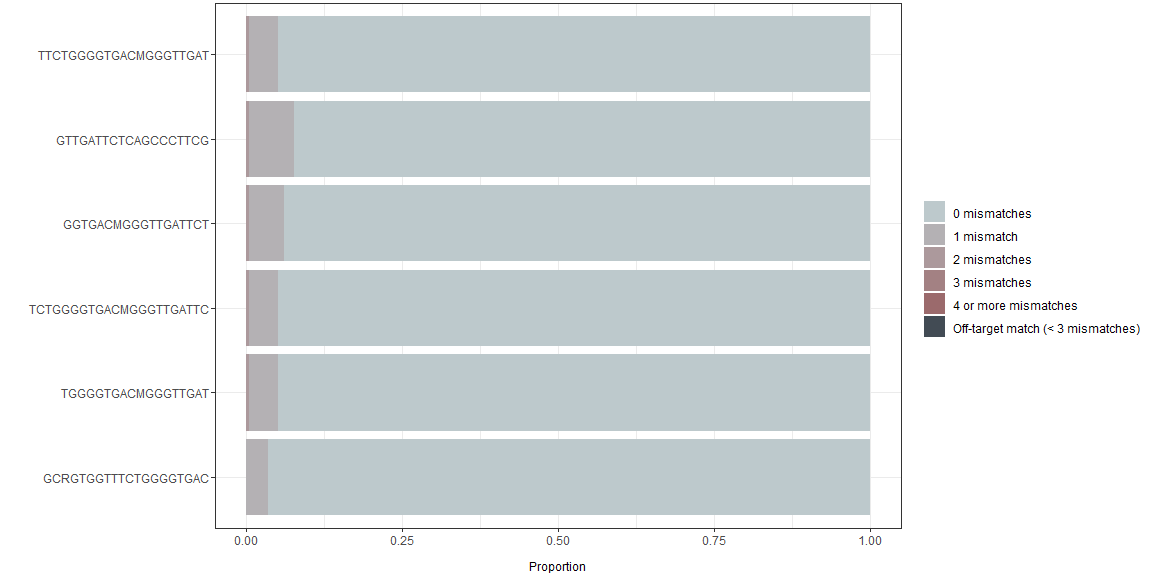
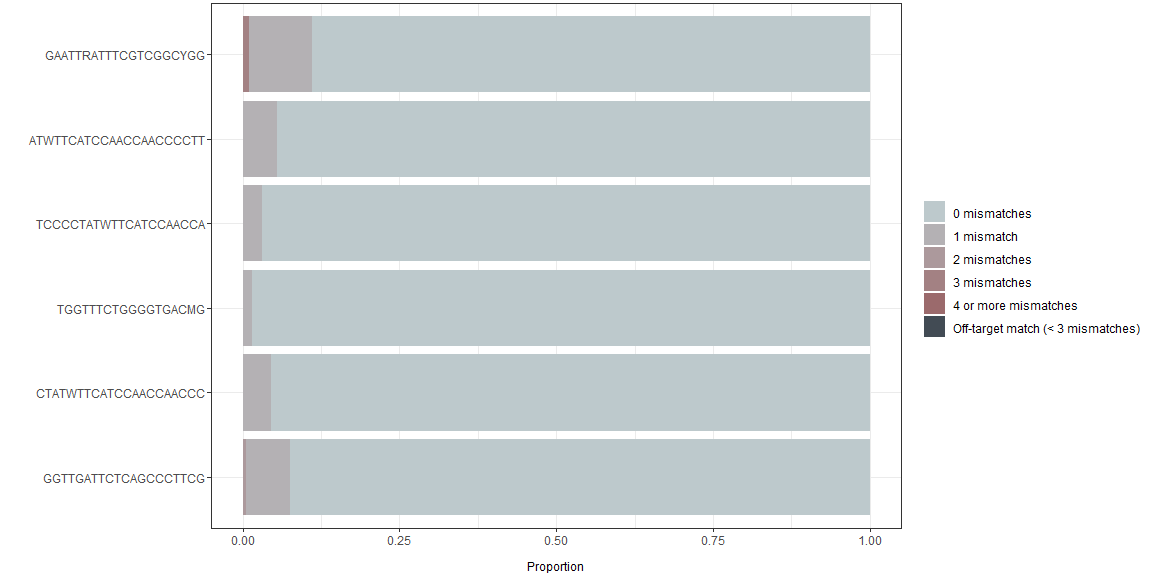
updated shiny app

diff --git a/README.md b/README.md
@@ -7,8 +7,6 @@
 
 [![R build
 status](https://github.com/sofpn/rprimer/workflows/R-CMD-check/badge.svg)](https://github.com/sofpn/rprimer/actions)
-[![Codecov test
-coverage](https://codecov.io/gh/sofpn/rprimer/branch/master/graph/badge.svg)](https://codecov.io/gh/sofpn/rprimer?branch=master)
 <!-- badges: end -->
 
 *This package is in development*
@@ -48,6 +46,8 @@ interface). It is loaded by:
 -   `runRprimerApp()`
 
 ## Workflow
+
+### Quick start
 
 ### Import alignment
 
@@ -112,12 +112,12 @@ Results (first six rows):
 
 | type   | fwd   | rev   | start | end | length | iupacSequence        | iupacSequenceRc      | identity | coverage | degeneracy | gcContentMean | gcContentRange | tmMean | tmRange | deltaGMean | deltaGRange | sequence   | sequenceRc | gcContent  | tm         | deltaG     | method    | score | roiStart | roiEnd |
 |:-------|:------|:------|------:|----:|-------:|:---------------------|:---------------------|---------:|---------:|-----------:|--------------:|---------------:|-------:|--------:|-----------:|------------:|:-----------|:-----------|:-----------|:-----------|:-----------|:----------|------:|---------:|-------:|
-| probe  | TRUE  | TRUE  |   138 | 157 |     20 | TCYGCCYTGGCGAATGCTGT | ACAGCATTCGCCARGGCRGA |     0.96 |        1 |          4 |          0.60 |           0.10 |  63.17 |    4.33 |     -21.61 |        2.08 | TCCGCCCT…. | ACAGCATT…. | 0.65, 0….. | 65.33623…. | -22.6538…. | ambiguous |     5 |        1 |   7997 |
-| probe  | FALSE | TRUE  |   141 | 160 |     20 | GCCYTGGCGAATGCTGTGGT | ACCACAGCATTCGCCARGGC |     0.98 |        1 |          2 |          0.62 |           0.05 |  63.18 |    1.84 |     -21.73 |        0.83 | GCCCTGGC…. | ACCACAGC…. | 0.65, 0.6  | 64.10586…. | -22.1475…. | ambiguous |     4 |        1 |   7997 |
-| primer | TRUE  | FALSE |   142 | 160 |     19 | CCYTGGCGAATGCTGTGGT  | ACCACAGCATTCGCCARGG  |     0.98 |        1 |          2 |          0.61 |           0.05 |  61.48 |    1.95 |     -19.84 |        0.83 | CCCTGGCG…. | ACCACAGC…. | 0.631578…. | 62.45335…. | -20.2570…. | ambiguous |     4 |        1 |   7997 |
-| probe  | TRUE  | TRUE  |   142 | 160 |     19 | CCYTGGCGAATGCTGTGGT  | ACCACAGCATTCGCCARGG  |     0.98 |        1 |          2 |          0.61 |           0.05 |  60.45 |    1.94 |     -19.84 |        0.83 | CCCTGGCG…. | ACCACAGC…. | 0.631578…. | 61.41686…. | -20.2570…. | ambiguous |     4 |        1 |   7997 |
-| primer | TRUE  | FALSE |   143 | 160 |     18 | CYTGGCGAATGCTGTGGT   | ACCACAGCATTCGCCARG   |     0.98 |        1 |          2 |          0.58 |           0.06 |  59.19 |    2.04 |     -18.35 |        0.83 | CCTGGCGA…. | ACCACAGC…. | 0.611111…. | 60.20693…. | -18.7709…. | ambiguous |     4 |        1 |   7997 |
-| probe  | TRUE  | TRUE  |   143 | 160 |     18 | CYTGGCGAATGCTGTGGT   | ACCACAGCATTCGCCARG   |     0.98 |        1 |          2 |          0.58 |           0.06 |  58.11 |    2.03 |     -18.35 |        0.83 | CCTGGCGA…. | ACCACAGC…. | 0.611111…. | 59.12650…. | -18.7709…. | ambiguous |     4 |        1 |   7997 |
+| probe  | TRUE  | TRUE  |   138 | 157 |     20 | TCYGCCYTGGCGAATGCTGT | ACAGCATTCGCCARGGCRGA |     0.96 |        1 |          4 |          0.60 |           0.10 |  63.17 |    4.33 |     -21.61 |        2.08 | TCCGCCCT…. | ACAGCATT…. | 0.65, 0….. | 65.33623…. | -22.6538…. | ambiguous |     2 |        1 |   7997 |
+| probe  | FALSE | TRUE  |   141 | 160 |     20 | GCCYTGGCGAATGCTGTGGT | ACCACAGCATTCGCCARGGC |     0.98 |        1 |          2 |          0.62 |           0.05 |  63.18 |    1.84 |     -21.73 |        0.83 | GCCCTGGC…. | ACCACAGC…. | 0.65, 0.6  | 64.10586…. | -22.1475…. | ambiguous |     3 |        1 |   7997 |
+| primer | TRUE  | FALSE |   142 | 160 |     19 | CCYTGGCGAATGCTGTGGT  | ACCACAGCATTCGCCARGG  |     0.98 |        1 |          2 |          0.61 |           0.05 |  61.48 |    1.95 |     -19.84 |        0.83 | CCCTGGCG…. | ACCACAGC…. | 0.631578…. | 62.45335…. | -20.2570…. | ambiguous |     3 |        1 |   7997 |
+| probe  | TRUE  | TRUE  |   142 | 160 |     19 | CCYTGGCGAATGCTGTGGT  | ACCACAGCATTCGCCARGG  |     0.98 |        1 |          2 |          0.61 |           0.05 |  60.45 |    1.94 |     -19.84 |        0.83 | CCCTGGCG…. | ACCACAGC…. | 0.631578…. | 61.41686…. | -20.2570…. | ambiguous |     3 |        1 |   7997 |
+| primer | TRUE  | FALSE |   143 | 160 |     18 | CYTGGCGAATGCTGTGGT   | ACCACAGCATTCGCCARG   |     0.98 |        1 |          2 |          0.58 |           0.06 |  59.19 |    2.04 |     -18.35 |        0.83 | CCTGGCGA…. | ACCACAGC…. | 0.611111…. | 60.20693…. | -18.7709…. | ambiguous |     2 |        1 |   7997 |
+| probe  | TRUE  | TRUE  |   143 | 160 |     18 | CYTGGCGAATGCTGTGGT   | ACCACAGCATTCGCCARG   |     0.98 |        1 |          2 |          0.58 |           0.06 |  58.11 |    2.03 |     -18.35 |        0.83 | CCTGGCGA…. | ACCACAGC…. | 0.611111…. | 59.12650…. | -18.7709…. | ambiguous |     2 |        1 |   7997 |
 
 The results can be visualized as a dashboard, using `plotData()`:
 
@@ -142,12 +142,12 @@ Results (first six rows):
 
 | start |  end | length | totalDegeneracy | score | startFwd | endFwd | lengthFwd | iupacSequenceFwd     | identityFwd | coverageFwd | degeneracyFwd | gcContentMeanFwd | gcContentRangeFwd | tmMeanFwd | tmRangeFwd | deltaGMeanFwd | deltaGRangeFwd | sequenceFwd | gcContentFwd | tmFwd      | deltaGFwd  | methodFwd | startRev | endRev | lengthRev | iupacSequenceRev     | identityRev | coverageRev | degeneracyRev | gcContentMeanRev | gcContentRangeRev | tmMeanRev | tmRangeRev | deltaGMeanRev | deltaGRangeRev | sequenceRev | gcContentRev | tmRev      | deltaGRev  | methodRev | plusPr | minusPr | startPr | endPr | lengthPr | iupacSequencePr        | iupacSequenceRcPr      | identityPr | coveragePr | degeneracyPr | gcContentMeanPr | gcContentRangePr | tmMeanPr | tmRangePr | deltaGMeanPr | deltaGRangePr | sequencePr | sequenceRcPr | gcContentPr | tmPr       | deltaGPr   | methodPr  | roiStart | roiEnd |
 |------:|-----:|-------:|----------------:|------:|---------:|-------:|----------:|:---------------------|------------:|------------:|--------------:|-----------------:|------------------:|----------:|-----------:|--------------:|---------------:|:------------|:-------------|:-----------|:-----------|:----------|---------:|-------:|----------:|:---------------------|------------:|------------:|--------------:|-----------------:|------------------:|----------:|-----------:|--------------:|---------------:|:------------|:-------------|:-----------|:-----------|:----------|:-------|:--------|--------:|------:|---------:|:-----------------------|:-----------------------|-----------:|-----------:|-------------:|----------------:|-----------------:|---------:|----------:|-------------:|--------------:|:-----------|:-------------|:------------|:-----------|:-----------|:----------|---------:|-------:|
-|  5926 | 5994 |     69 |               6 |  3.67 |     5926 |   5945 |        20 | GGCRGTGGTTTCTGGGGTGA |        0.98 |           1 |             2 |             0.62 |              0.05 |     62.84 |       2.51 |        -20.86 |           1.25 | GGCAGTGG….  | 0.6, 0.65    | 61.57995…. | -20.2350…. | ambiguous |     5975 |   5994 |        20 | GTTGGTTGGATGAASATAGG |           1 |           1 |             2 |              0.4 |                 0 |     50.71 |        1.1 |        -15.27 |           0.52 | GTTGGTTG….  | 0.4, 0.4     | 50.15469…. | -15.0078…. | ambiguous | TRUE   | FALSE   |    5946 |  5963 |       18 | CMGGGTTGATTCTCAGCC     | GGCTGAGAATCAACCCKG     |       0.98 |          1 |            2 |            0.58 |             0.06 |    55.14 |      2.79 |       -17.06 |          1.25 | CAGGGTTG…. | GGCTGAGA….   | 0.555555….  | 53.74554…. | -16.4324…. | ambiguous |        1 |   7997 |
-|  5926 | 5994 |     69 |               6 |  4.00 |     5926 |   5945 |        20 | GGCRGTGGTTTCTGGGGTGA |        0.98 |           1 |             2 |             0.62 |              0.05 |     62.84 |       2.51 |        -20.86 |           1.25 | GGCAGTGG….  | 0.6, 0.65    | 61.57995…. | -20.2350…. | ambiguous |     5975 |   5994 |        20 | GTTGGTTGGATGAASATAGG |           1 |           1 |             2 |              0.4 |                 0 |     50.71 |        1.1 |        -15.27 |           0.52 | GTTGGTTG….  | 0.4, 0.4     | 50.15469…. | -15.0078…. | ambiguous | TRUE   | FALSE   |    5946 |  5964 |       19 | CMGGGTTGATTCTCAGCCC    | GGGCTGAGAATCAACCCKG    |       0.98 |          1 |            2 |            0.61 |             0.05 |    57.63 |      2.64 |       -18.54 |          1.25 | CAGGGTTG…. | GGGCTGAG….   | 0.578947….  | 56.30713…. | -17.9185…. | ambiguous |        1 |   7997 |
-|  5926 | 5994 |     69 |               6 |  3.67 |     5926 |   5945 |        20 | GGCRGTGGTTTCTGGGGTGA |        0.98 |           1 |             2 |             0.62 |              0.05 |     62.84 |       2.51 |        -20.86 |           1.25 | GGCAGTGG….  | 0.6, 0.65    | 61.57995…. | -20.2350…. | ambiguous |     5975 |   5994 |        20 | GTTGGTTGGATGAASATAGG |           1 |           1 |             2 |              0.4 |                 0 |     50.71 |        1.1 |        -15.27 |           0.52 | GTTGGTTG….  | 0.4, 0.4     | 50.15469…. | -15.0078…. | ambiguous | TRUE   | TRUE    |    5946 |  5965 |       20 | CMGGGTTGATTCTCAGCCCT   | AGGGCTGAGAATCAACCCKG   |       0.98 |          1 |            2 |            0.58 |             0.05 |    58.87 |      2.55 |       -19.43 |          1.25 | CAGGGTTG…. | AGGGCTGA….   | 0.55, 0.6   | 57.59836…. | -18.8035…. | ambiguous |        1 |   7997 |
-|  5926 | 5994 |     69 |               6 |  3.33 |     5926 |   5945 |        20 | GGCRGTGGTTTCTGGGGTGA |        0.98 |           1 |             2 |             0.62 |              0.05 |     62.84 |       2.51 |        -20.86 |           1.25 | GGCAGTGG….  | 0.6, 0.65    | 61.57995…. | -20.2350…. | ambiguous |     5975 |   5994 |        20 | GTTGGTTGGATGAASATAGG |           1 |           1 |             2 |              0.4 |                 0 |     50.71 |        1.1 |        -15.27 |           0.52 | GTTGGTTG….  | 0.4, 0.4     | 50.15469…. | -15.0078…. | ambiguous | TRUE   | TRUE    |    5946 |  5966 |       21 | CMGGGTTGATTCTCAGCCCTT  | AAGGGCTGAGAATCAACCCKG  |       0.98 |          1 |            2 |            0.55 |             0.05 |    59.21 |      2.43 |       -20.08 |          1.25 | CAGGGTTG…. | AAGGGCTG….   | 0.523809….  | 57.99472…. | -19.4553…. | ambiguous |        1 |   7997 |
-|  5926 | 5994 |     69 |               6 |  3.67 |     5926 |   5945 |        20 | GGCRGTGGTTTCTGGGGTGA |        0.98 |           1 |             2 |             0.62 |              0.05 |     62.84 |       2.51 |        -20.86 |           1.25 | GGCAGTGG….  | 0.6, 0.65    | 61.57995…. | -20.2350…. | ambiguous |     5975 |   5994 |        20 | GTTGGTTGGATGAASATAGG |           1 |           1 |             2 |              0.4 |                 0 |     50.71 |        1.1 |        -15.27 |           0.52 | GTTGGTTG….  | 0.4, 0.4     | 50.15469…. | -15.0078…. | ambiguous | TRUE   | FALSE   |    5946 |  5967 |       22 | CMGGGTTGATTCTCAGCCCTTC | GAAGGGCTGAGAATCAACCCKG |       0.98 |          1 |            2 |            0.57 |             0.05 |    59.91 |      2.28 |       -21.11 |          1.25 | CAGGGTTG…. | GAAGGGCT….   | 0.545454….  | 58.77533…. | -20.4881…. | ambiguous |        1 |   7997 |
-|  5926 | 5994 |     69 |               6 |  3.33 |     5926 |   5945 |        20 | GGCRGTGGTTTCTGGGGTGA |        0.98 |           1 |             2 |             0.62 |              0.05 |     62.84 |       2.51 |        -20.86 |           1.25 | GGCAGTGG….  | 0.6, 0.65    | 61.57995…. | -20.2350…. | ambiguous |     5975 |   5994 |        20 | GTTGGTTGGATGAASATAGG |           1 |           1 |             2 |              0.4 |                 0 |     50.71 |        1.1 |        -15.27 |           0.52 | GTTGGTTG….  | 0.4, 0.4     | 50.15469…. | -15.0078…. | ambiguous | TRUE   | FALSE   |    5947 |  5964 |       18 | MGGGTTGATTCTCAGCCC     | GGGCTGAGAATCAACCCK     |       0.98 |          1 |            2 |            0.58 |             0.06 |    55.71 |      1.65 |       -17.21 |          0.94 | AGGGTTGA…. | GGGCTGAG….   | 0.555555….  | 54.88806…. | -16.7409…. | ambiguous |        1 |   7997 |
+|  5926 | 5994 |     69 |               6 |  2.00 |     5926 |   5945 |        20 | GGCRGTGGTTTCTGGGGTGA |        0.98 |           1 |             2 |             0.62 |              0.05 |     62.84 |       2.51 |        -20.86 |           1.25 | GGCAGTGG….  | 0.6, 0.65    | 61.57995…. | -20.2350…. | ambiguous |     5975 |   5994 |        20 | GTTGGTTGGATGAASATAGG |           1 |           1 |             2 |              0.4 |                 0 |     50.71 |        1.1 |        -15.27 |           0.52 | GTTGGTTG….  | 0.4, 0.4     | 50.15469…. | -15.0078…. | ambiguous | TRUE   | FALSE   |    5946 |  5963 |       18 | CMGGGTTGATTCTCAGCC     | GGCTGAGAATCAACCCKG     |       0.98 |          1 |            2 |            0.58 |             0.06 |    55.14 |      2.79 |       -17.06 |          1.25 | CAGGGTTG…. | GGCTGAGA….   | 0.555555….  | 53.74554…. | -16.4324…. | ambiguous |        1 |   7997 |
+|  5926 | 5994 |     69 |               6 |  2.33 |     5926 |   5945 |        20 | GGCRGTGGTTTCTGGGGTGA |        0.98 |           1 |             2 |             0.62 |              0.05 |     62.84 |       2.51 |        -20.86 |           1.25 | GGCAGTGG….  | 0.6, 0.65    | 61.57995…. | -20.2350…. | ambiguous |     5975 |   5994 |        20 | GTTGGTTGGATGAASATAGG |           1 |           1 |             2 |              0.4 |                 0 |     50.71 |        1.1 |        -15.27 |           0.52 | GTTGGTTG….  | 0.4, 0.4     | 50.15469…. | -15.0078…. | ambiguous | TRUE   | FALSE   |    5946 |  5964 |       19 | CMGGGTTGATTCTCAGCCC    | GGGCTGAGAATCAACCCKG    |       0.98 |          1 |            2 |            0.61 |             0.05 |    57.63 |      2.64 |       -18.54 |          1.25 | CAGGGTTG…. | GGGCTGAG….   | 0.578947….  | 56.30713…. | -17.9185…. | ambiguous |        1 |   7997 |
+|  5926 | 5994 |     69 |               6 |  2.00 |     5926 |   5945 |        20 | GGCRGTGGTTTCTGGGGTGA |        0.98 |           1 |             2 |             0.62 |              0.05 |     62.84 |       2.51 |        -20.86 |           1.25 | GGCAGTGG….  | 0.6, 0.65    | 61.57995…. | -20.2350…. | ambiguous |     5975 |   5994 |        20 | GTTGGTTGGATGAASATAGG |           1 |           1 |             2 |              0.4 |                 0 |     50.71 |        1.1 |        -15.27 |           0.52 | GTTGGTTG….  | 0.4, 0.4     | 50.15469…. | -15.0078…. | ambiguous | TRUE   | TRUE    |    5946 |  5965 |       20 | CMGGGTTGATTCTCAGCCCT   | AGGGCTGAGAATCAACCCKG   |       0.98 |          1 |            2 |            0.58 |             0.05 |    58.87 |      2.55 |       -19.43 |          1.25 | CAGGGTTG…. | AGGGCTGA….   | 0.55, 0.6   | 57.59836…. | -18.8035…. | ambiguous |        1 |   7997 |
+|  5926 | 5994 |     69 |               6 |  1.67 |     5926 |   5945 |        20 | GGCRGTGGTTTCTGGGGTGA |        0.98 |           1 |             2 |             0.62 |              0.05 |     62.84 |       2.51 |        -20.86 |           1.25 | GGCAGTGG….  | 0.6, 0.65    | 61.57995…. | -20.2350…. | ambiguous |     5975 |   5994 |        20 | GTTGGTTGGATGAASATAGG |           1 |           1 |             2 |              0.4 |                 0 |     50.71 |        1.1 |        -15.27 |           0.52 | GTTGGTTG….  | 0.4, 0.4     | 50.15469…. | -15.0078…. | ambiguous | TRUE   | TRUE    |    5946 |  5966 |       21 | CMGGGTTGATTCTCAGCCCTT  | AAGGGCTGAGAATCAACCCKG  |       0.98 |          1 |            2 |            0.55 |             0.05 |    59.21 |      2.43 |       -20.08 |          1.25 | CAGGGTTG…. | AAGGGCTG….   | 0.523809….  | 57.99472…. | -19.4553…. | ambiguous |        1 |   7997 |
+|  5926 | 5994 |     69 |               6 |  2.00 |     5926 |   5945 |        20 | GGCRGTGGTTTCTGGGGTGA |        0.98 |           1 |             2 |             0.62 |              0.05 |     62.84 |       2.51 |        -20.86 |           1.25 | GGCAGTGG….  | 0.6, 0.65    | 61.57995…. | -20.2350…. | ambiguous |     5975 |   5994 |        20 | GTTGGTTGGATGAASATAGG |           1 |           1 |             2 |              0.4 |                 0 |     50.71 |        1.1 |        -15.27 |           0.52 | GTTGGTTG….  | 0.4, 0.4     | 50.15469…. | -15.0078…. | ambiguous | TRUE   | FALSE   |    5946 |  5967 |       22 | CMGGGTTGATTCTCAGCCCTTC | GAAGGGCTGAGAATCAACCCKG |       0.98 |          1 |            2 |            0.57 |             0.05 |    59.91 |      2.28 |       -21.11 |          1.25 | CAGGGTTG…. | GAAGGGCT….   | 0.545454….  | 58.77533…. | -20.4881…. | ambiguous |        1 |   7997 |
+|  5926 | 5994 |     69 |               6 |  2.00 |     5926 |   5945 |        20 | GGCRGTGGTTTCTGGGGTGA |        0.98 |           1 |             2 |             0.62 |              0.05 |     62.84 |       2.51 |        -20.86 |           1.25 | GGCAGTGG….  | 0.6, 0.65    | 61.57995…. | -20.2350…. | ambiguous |     5975 |   5994 |        20 | GTTGGTTGGATGAASATAGG |           1 |           1 |             2 |              0.4 |                 0 |     50.71 |        1.1 |        -15.27 |           0.52 | GTTGGTTG….  | 0.4, 0.4     | 50.15469…. | -15.0078…. | ambiguous | TRUE   | FALSE   |    5947 |  5964 |       18 | MGGGTTGATTCTCAGCCC     | GGGCTGAGAATCAACCCK     |       0.98 |          1 |            2 |            0.58 |             0.06 |    55.71 |      1.65 |       -17.21 |          0.94 | AGGGTTGA…. | GGGCTGAG….   | 0.555555….  | 54.88806…. | -16.7409…. | ambiguous |        1 |   7997 |
 
 The assays can be visualized using `plotData()`:
 
@@ -174,12 +174,12 @@ Results:
 
 | iupacSequence          | perfectMatch | idPerfectMatch | oneMismatch | idOneMismatch | twoMismatches | idTwoMismatches | threeMismatches | idThreeMismatches | fourOrMoreMismatches | idFourOrMoreMismatches | offTargetMatch | idOffTargetMatch |
 |:-----------------------|-------------:|:---------------|------------:|:--------------|--------------:|:----------------|----------------:|:------------------|---------------------:|:-----------------------|---------------:|:-----------------|
-| TTCTGGGGTGACMGGGTTGAT  |         0.95 | M73218.1….     |        0.05 | AB222183….    |          0.01 | JQ953665.1      |               0 |                   |                    0 |                        |              0 |                  |
-| GTTGATTCTCAGCCCTTCG    |         0.92 | M73218.1….     |        0.07 | AY575857….    |          0.01 | AB222183.1      |               0 |                   |                    0 |                        |              0 |                  |
-| GGTGACMGGGTTGATTCT     |         0.94 | M73218.1….     |        0.06 | AB222183….    |          0.01 | JQ953665.1      |               0 |                   |                    0 |                        |              0 |                  |
-| TCTGGGGTGACMGGGTTGATTC |         0.95 | M73218.1….     |        0.05 | AB222183….    |          0.01 | JQ953665.1      |               0 |                   |                    0 |                        |              0 |                  |
-| TGGGGTGACMGGGTTGAT     |         0.95 | M73218.1….     |        0.05 | AB222183….    |          0.01 | JQ953665.1      |               0 |                   |                    0 |                        |              0 |                  |
-| GCRGTGGTTTCTGGGGTGAC   |         0.96 | M73218.1….     |        0.04 | BD378055….    |          0.00 |                 |               0 |                   |                    0 |                        |              0 |                  |
+| GAATTRATTTCGTCGGCYGG   |         0.89 | M73218.1….     |        0.10 | AY575857….    |          0.00 |                 |            0.01 | MH410175….        |                    0 |                        |              0 |                  |
+| ATWTTCATCCAACCAACCCCTT |         0.94 | M73218.1….     |        0.06 | FJ457024….    |          0.00 |                 |            0.00 |                   |                    0 |                        |              0 |                  |
+| TCCCCTATWTTCATCCAACCA  |         0.97 | M73218.1….     |        0.03 | AY575857….    |          0.00 |                 |            0.00 |                   |                    0 |                        |              0 |                  |
+| TGGTTTCTGGGGTGACMG     |         0.98 | M73218.1….     |        0.02 | BD378055….    |          0.00 |                 |            0.00 |                   |                    0 |                        |              0 |                  |
+| CTATWTTCATCCAACCAACCC  |         0.95 | M73218.1….     |        0.05 | AY575857….    |          0.00 |                 |            0.00 |                   |                    0 |                        |              0 |                  |
+| GGTTGATTCTCAGCCCTTCG   |         0.92 | M73218.1….     |        0.07 | AY575857….    |          0.01 | AB222183.1      |            0.00 |                   |                    0 |                        |              0 |                  |
 
 The match table can be visualized using `plotData()`:
 
